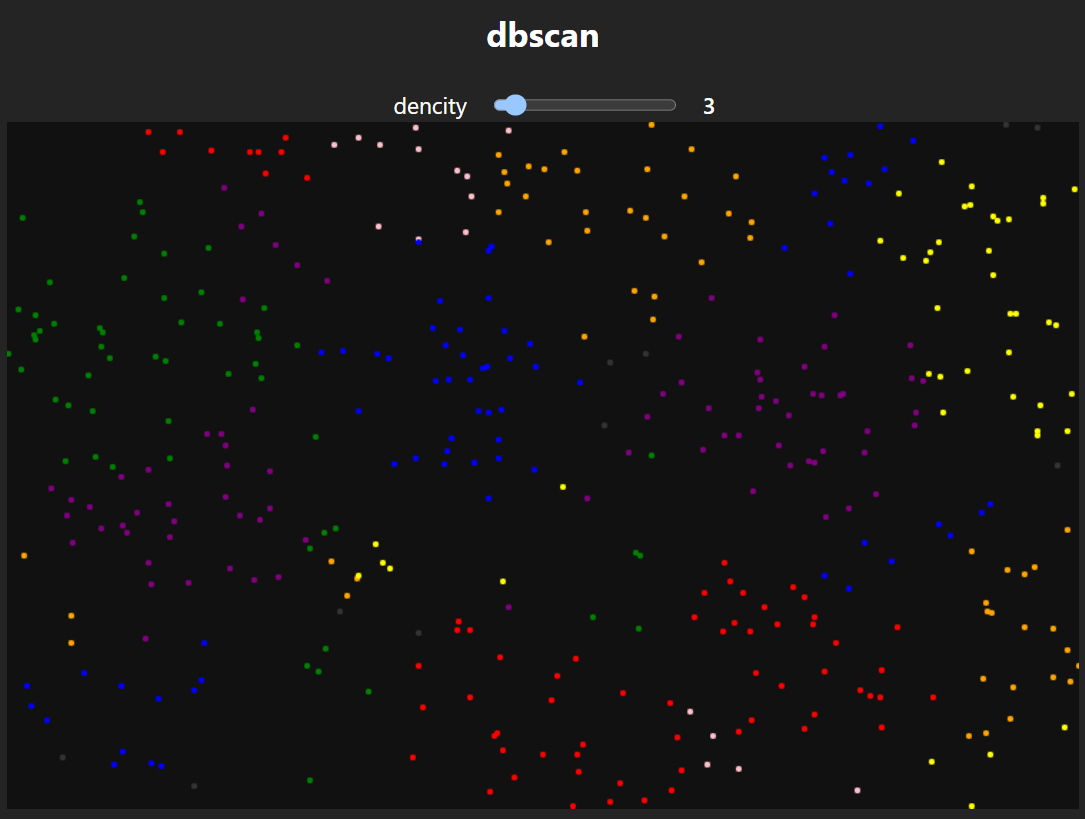
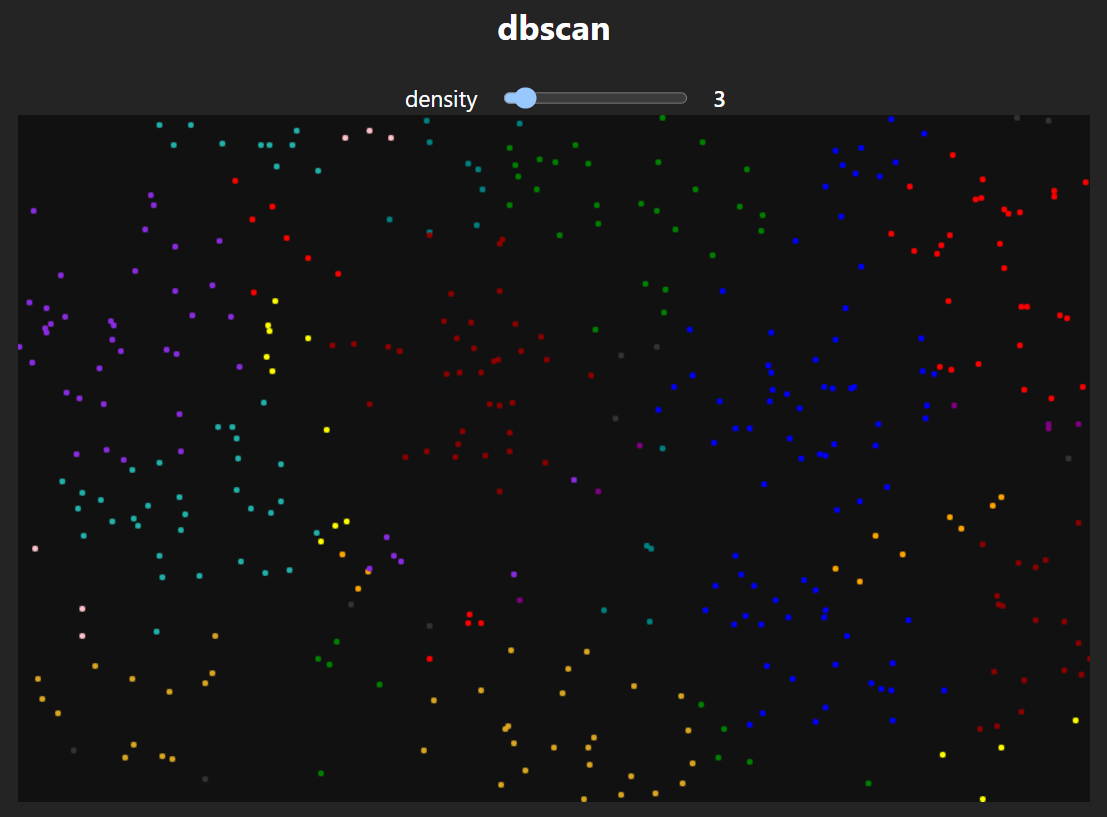
tipo rename

diff --git a/classes/DBSCAN.js b/classes/DBSCAN.js
@@ -49,15 +49,7 @@ export class DBSCAN {
       let index = 0;
       let seed_point = seed[index];
       while (seed_point) {
-        // if(seed_point.cluster === NOISE) {
-        //   seed_point.cluster = c
-        //   index++;
-        //   seed_point = seed[index];
-        //   continue
-        // }
         if (seed_point.cluster !== undefined && seed_point.cluster !== NOISE) {
-          // this.points
-          //   .forEach(p => p.cluster === seed_point.cluster &&  (p.cluster = c))
           seed_point.cluster = c;
           index++;
           seed_point = seed[index];

diff --git a/main.js b/main.js
@@ -4,7 +4,20 @@ import { kMeans } from './k-means/k-meas';
 import { points } from './points';
 import './style.css';
 
-const colors = ['red', 'green', 'blue', 'yellow', 'orange', 'purple', 'pink'];
+const colors = [
+  'red',
+  'green',
+  'blue',
+  'yellow',
+  'orange',
+  'purple',
+  'pink',
+  'lightseagreen',
+  'teal',
+  'goldenrod',
+  'blueviolet',
+  'darkred',
+];
 
 const app = document.querySelector('#app');
 

diff --git a/index.html b/index.html
@@ -11,7 +11,7 @@
       <section class="dbscan">
         <h2>dbscan</h2>
         <div class="vac">
-          <label for="dbscan-range">dencity</label>
+          <label for="dbscan-range">density</label>
           <input
             id="dbscan-range"
             type="range"
